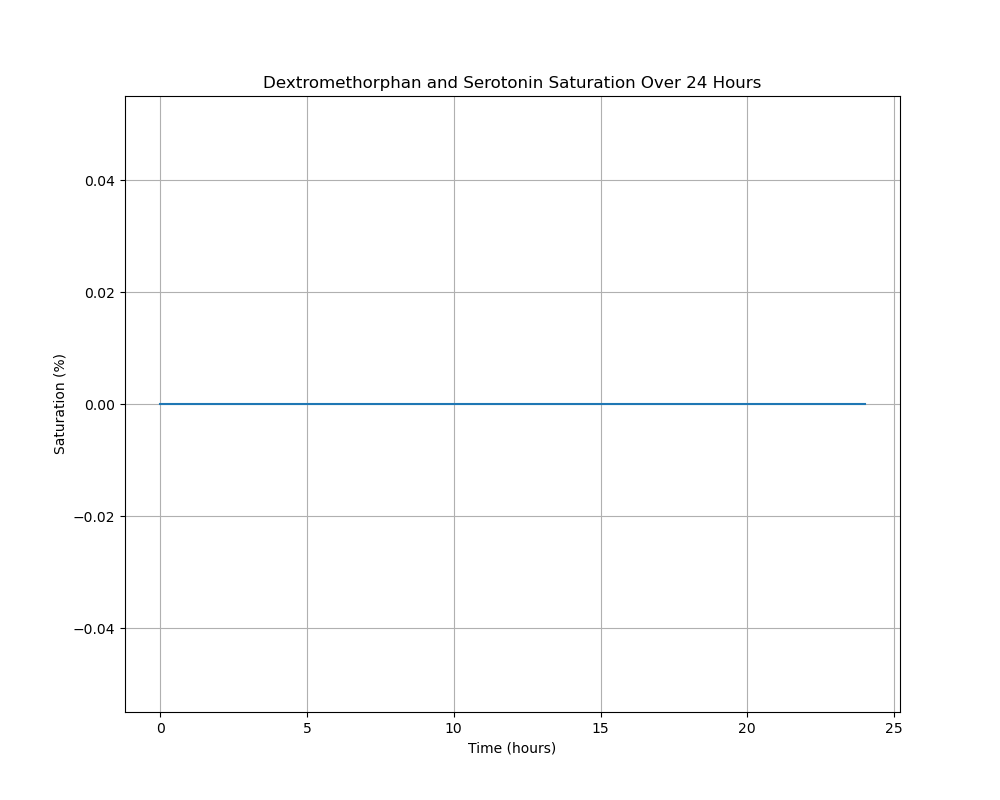
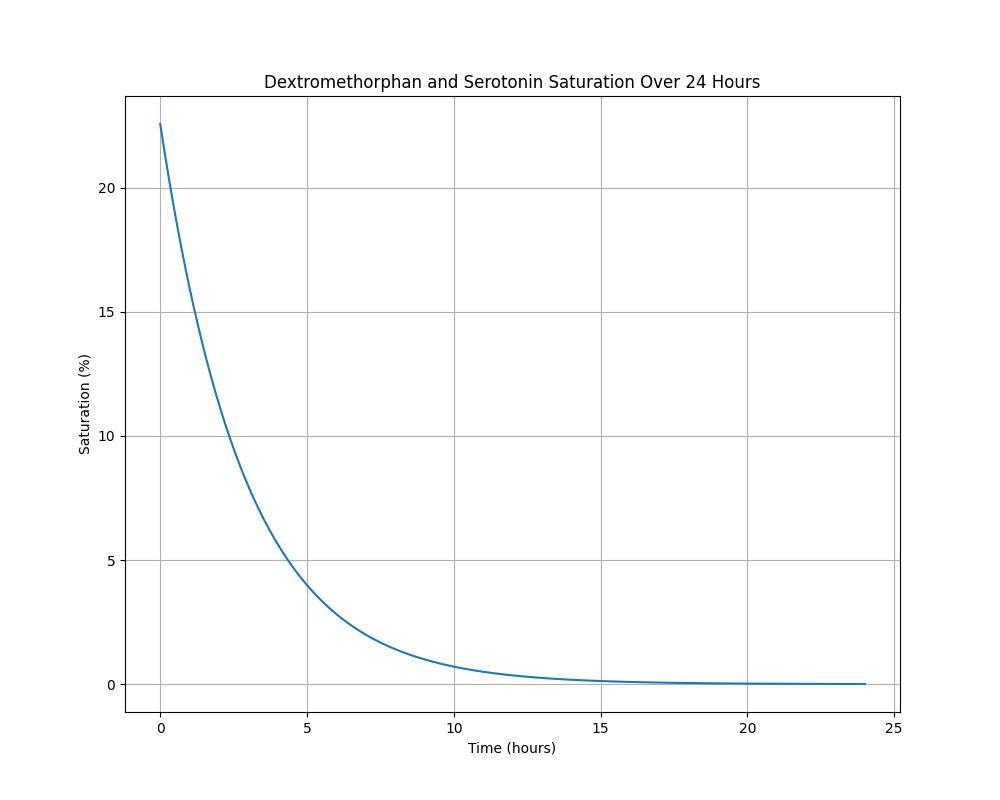
BrainA-B

diff --git a/pbl2/BrainA.py b/pbl2/BrainA.py
@@ -3,10 +3,13 @@ from scipy.integrate import solve_ivp
 import matplotlib.pyplot as plt
 import constants as c
 
-t = np.linspace(0, 24, 24)  # 0 to 24 hours
+t = np.linspace(0, 24, 500)  # 0 to 24 hours
 DXM = [] #DXM in mols/cell
 sat = [] #what percentage of SERTs bound by DXM
-ser_sert = [] #amount of serotonin passing through SERT
+
+#amount of serotonin passing through SERT
+ser_sert =[]
+
 
 def DXM_inhibitor(t):
     decay = 0.5 ** (t / 2)
@@ -25,49 +28,54 @@ def DXM_inhibitor(t):
 
 
 for time in t:  
-    a = DXM_inhibitor(time)[0]
-    DXM.append(a)
-    o = DXM_inhibitor(time)[1]
-    sat.append(o)
-    f = DXM_inhibitor(time)[2]
-    ser_sert.append(f)
+    if(c.DXM_2 == 0):
+        ser_sert.append(c.Serotonin_conc_B)
+        sat.append(0)
+    else:
+        a = DXM_inhibitor(time)[0]
+        DXM.append(a)
+        o = DXM_inhibitor(time)[1]
+        sat.append(o)
+        f = DXM_inhibitor(time)[2]
+        ser_sert.append(f)
 
 
-plt.figure(figsize=(10, 8))
-plt.plot(t, DXM)
-plt.xlabel('Time (hours)')
-plt.ylabel('Concentration (mmol/cell)')
-plt.title('Dextromethorphan Breakdown Over 24 Hours')
-plt.grid(True)
-plt.savefig("pbl2/graphs/DexBreakdown.png")
+#make ser_sert to give to BrainB:
+t_rounded = [round(time, 5) for time in t]
+sert_dict = {float(t): float(v) for t, v in zip(t_rounded, ser_sert)}
+tfs = []
+for dx in sat:
+    tfs.append(1 - float(dx)/100.0)
+print(tfs) 
 
-plt.figure(figsize = (10, 8))
-plt.plot(t, sat)
-plt.xlabel('Time (hours)')
-plt.ylabel('Saturation (%)')
-plt.title('Dextromethorphan and Serotonin Saturation Over 24 Hours')
-plt.grid(True)
-plt.savefig("pbl2/graphs/DexSaturation.png")
+#for BrainB:
+TF = {float(t): float(v) for t, v in zip(t_rounded, tfs)}
+S0 = sert_dict[0]
+#print(TF)
 
-plt.figure(figsize = (10, 8))
-plt.plot(t, ser_sert)
-plt.xlabel('Time (hours)')
-plt.ylabel('Saturation (%)')
-plt.title('Amount of Serotonin Passing Through SERT Over 24 Hours')
-plt.grid(True)
-plt.savefig("pbl2/graphs/SerotoninSERT.png")
+if (c.case>2) :
+    plt.figure(figsize=(10, 8))
+    plt.plot(t, DXM)
+    plt.xlabel('Time (hours)')
+    plt.ylabel('Concentration (mmol/cell)')
+    plt.title('Dextromethorphan Breakdown Over 24 Hours')
+    plt.grid(True)
+    plt.savefig("pbl2/graphs/DexBreakdown.png")
 
-'''
-if DXM == 0:
-    sertConstant = c.S_5
-    serotonin = np.zeros(t.size())
-    for s in serotonin: 
-        serotonin.append(sertConstant)
-    print(serotonin)
+    plt.figure(figsize = (10, 8))
+    plt.plot(t, sat)
+    plt.xlabel('Time (hours)')
+    plt.ylabel('Saturation (%)')
+    plt.title('Dextromethorphan and Serotonin Saturation Over 24 Hours')
+    plt.grid(True)
+    plt.savefig("pbl2/graphs/DexSaturation.png")
 
-return sert
-else:
-return sert found in brainA!
-'''
+    plt.figure(figsize = (10, 8))
+    plt.plot(t, ser_sert)
+    plt.xlabel('Time (hours)')
+    plt.ylabel('Saturation (%)')
+    plt.title('Amount of Serotonin Passing Through SERT Over 24 Hours')
+    plt.grid(True)
+    plt.savefig("pbl2/graphs/SerotoninSERT.png")
 
-print(ser_sert)
+

diff --git a/pbl2/BrainB.py b/pbl2/BrainB.py
@@ -12,10 +12,10 @@ Vmax_cell = Vmax * enzyme_per_cell  # mmol/ cell*hr
 
 Km = c.Km_maoA                   # mM
 Ki = c.Ki_maoi_maoA              # mM
-S0 = A.ser_sert          # mM
+TF = A.TF                        #dictionary of transport factors of serotonin
+S0 = A.S0             # mM, for each time value over 24 hours (dictionary= time:ser_sert)
 S_star0 = 0.0                    # mM
 initial_conditions = [S0, S_star0]
-
 
 def MAOI_inhibitor(t):
     decay = 0.5 ** (t / 2)
@@ -33,22 +33,26 @@ def MAOI_inhibitor_2(t):
 
 def MAOI_competitive_inhibition(t, y):
     S, P = y
+    closest_key = min(TF.keys(), key=lambda k: abs(k - t))
+    transport_factor = TF[closest_key]
     I = MAOI_inhibitor(t)
-    v = Vmax_cell * S / (Km * (1 + I / Ki) + S)
+    #v = Vmax_cell * S / (Km * (1 + I / Ki) + S)
+    v = (Vmax * S * transport_factor) / (Km * (1+ I / Ki) + S)
     dS_dt = -v
     dP_dt = v
-    print(I)
     return [dS_dt, dP_dt]
 
 def MAO_enzyme_reaction(t, y):
     S, P = y
-    v = (Vmax_cell * S) / (Km + S)  # mmol/cell/day
+    closest_key = min(TF.keys(), key=lambda k: abs(k - t))
+    transport_factor = TF[closest_key]
+    #v = (Vmax_cell * S) / (Km + S)  # mmol/cell/day
+    v = (Vmax * S * transport_factor) / (Km + S)
     dS_dt = -v
     dP_dt = v
     return [dS_dt, dP_dt]
 
 
-#t_span = (0, 24) #real
 t_span = (0, 24) #see longer term equations in action
 t_eval = np.linspace(t_span[0], t_span[1], 500)
 
@@ -90,4 +94,4 @@ else:
     S_star_8 = sol.y[1,-1]  #total amount of S_star created per day
     print(S_star_8)
 
-print(Ki)
+

diff --git a/pbl2/constants.py b/pbl2/constants.py
@@ -1,6 +1,6 @@
 import numpy as np
 
-case = 1
+case = 7
 #Case 0: No CSY, No MAOI, MDD
 #Case 1: No CSY, Normal MAOI, MDD
 #Case 2: No CSY, High Dose of MAOI, MDD
@@ -102,7 +102,7 @@ Vmax_maoB = 21.7*24*10e-6 #mmoles/mg/hr
 Ki_maoi_maoA = 0.0373 / S_cells #mM per cell
 Ki_maoi_maoB = 0.0136 / S_cells #mM per cell
 Serotonin_conc_B = S_6 / S_cells *1000 #millimoles per cell 
-
+print(Serotonin_conc_B)
 
 
 

diff --git a/pbl2/control.py b/pbl2/control.py
@@ -1,0 +1,8 @@
+import constants as c
+import BrainB as B
+
+cases = [0,1,2]
+
+for c in cases:
+    #get and save data for each case, then graph generically
+    continue;
